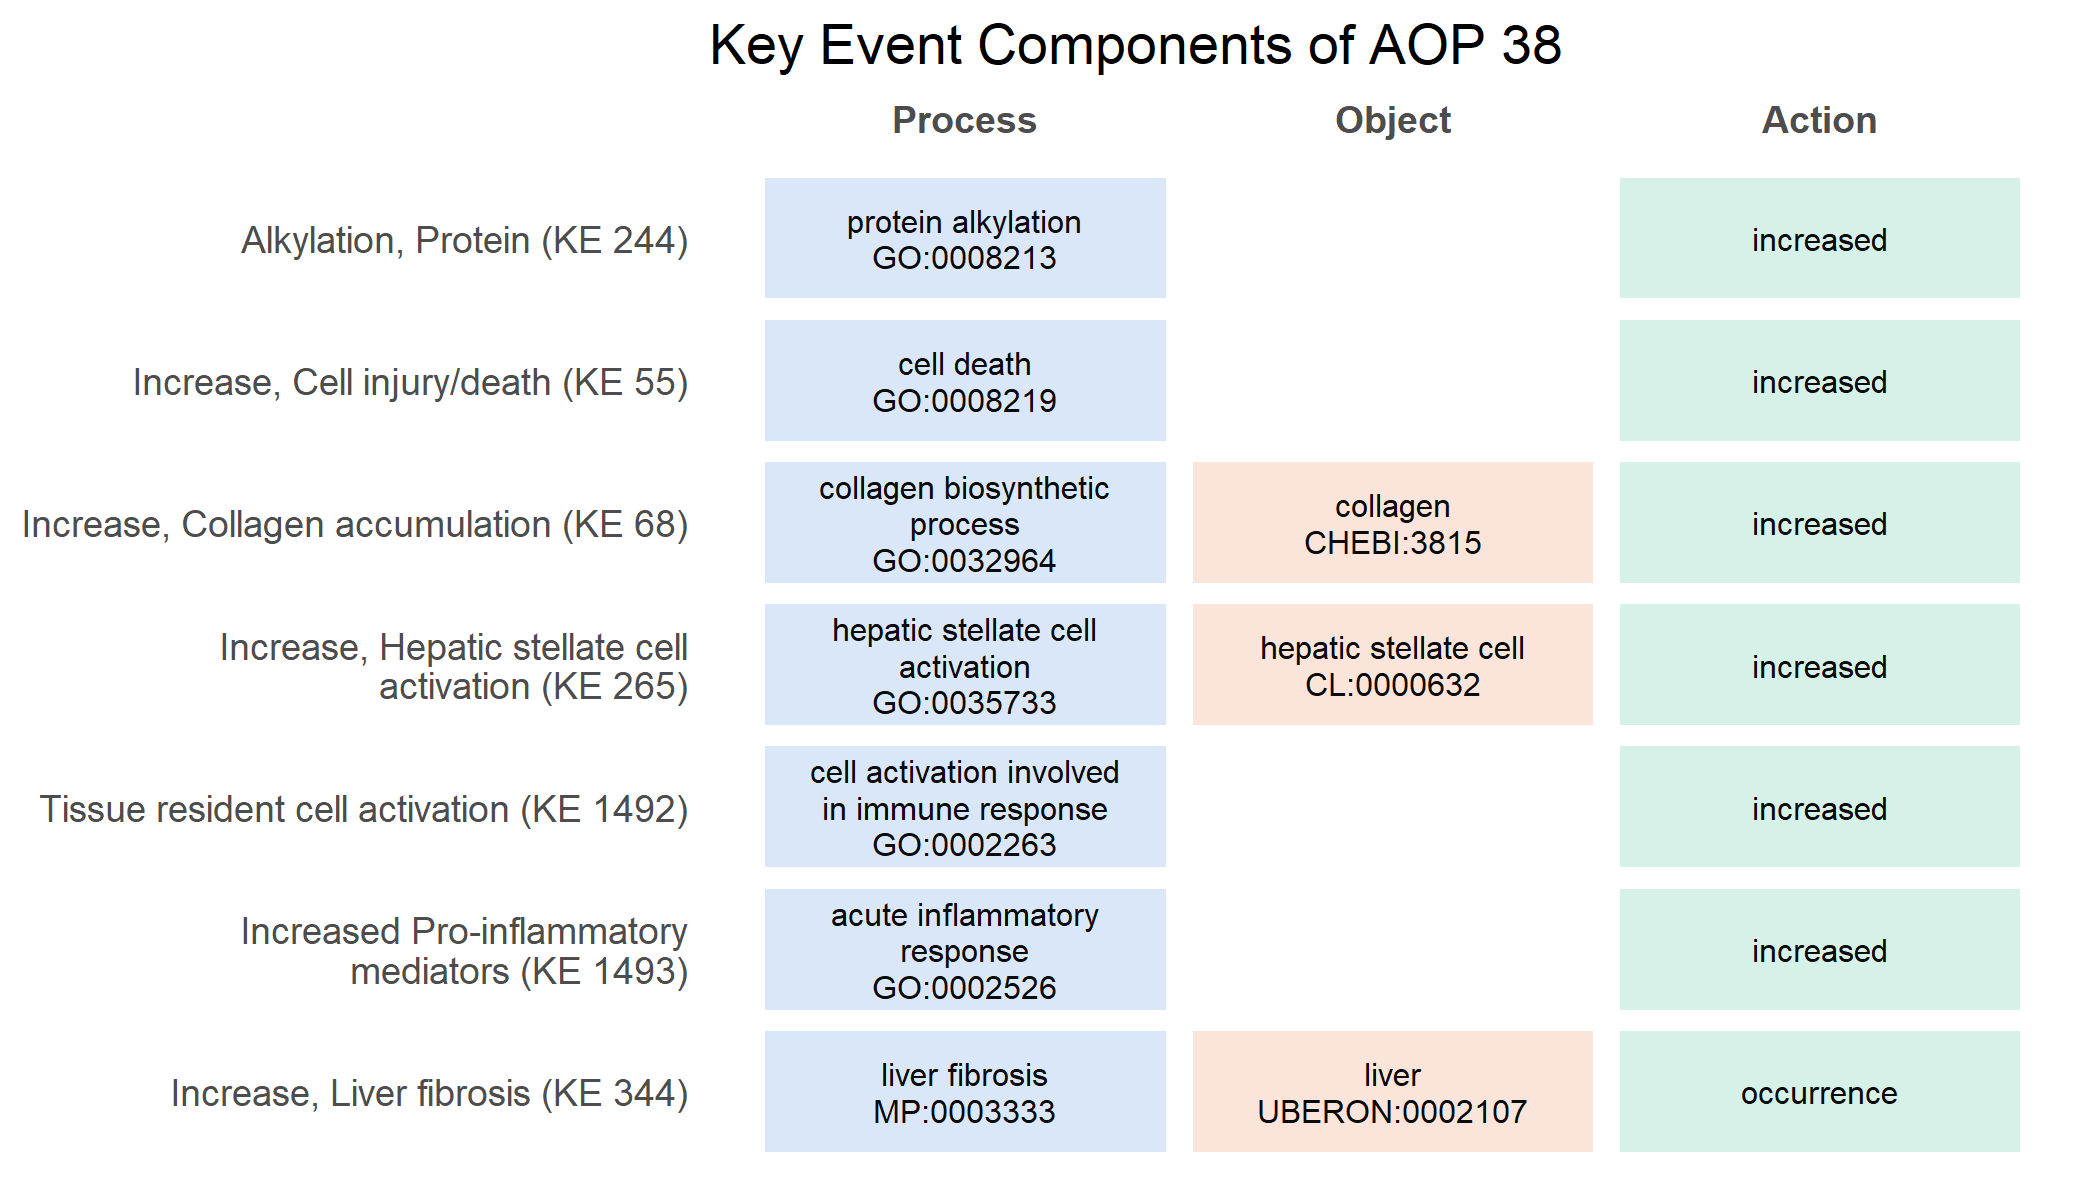
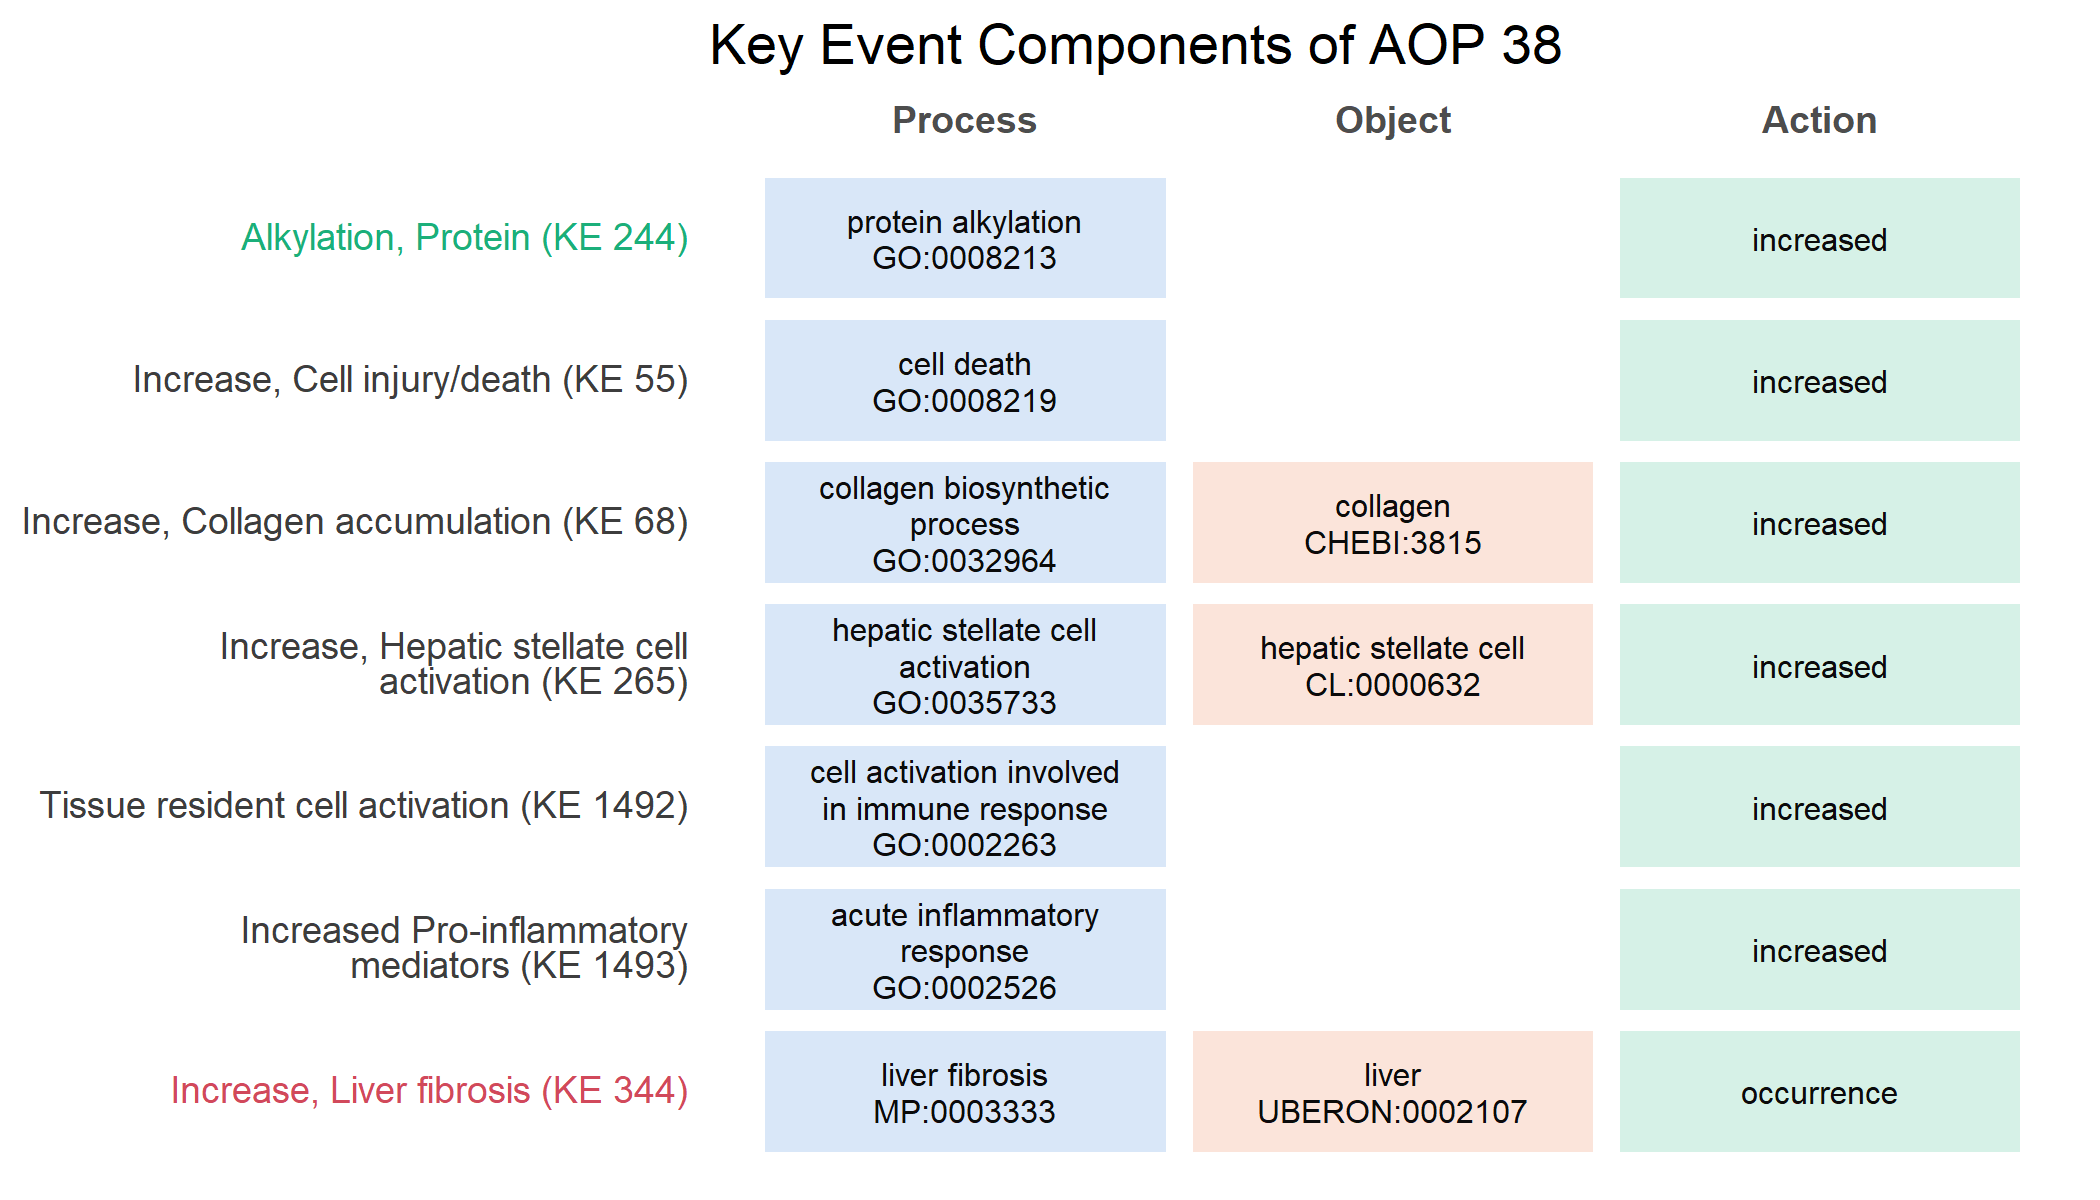
Lighten gene plot colours, mark MIE and AO in figure titles, keep Key Events without gene links

diff --git a/README.md b/README.md
@@ -68,7 +68,9 @@ table(genes$detected_by)
 ```
 
 Genes are linked to individual Key Events, so each Key Event can be
-treated as a candidate gene set:
+treated as a candidate gene set. Key Event titles are printed in green
+for the molecular initiating event and in red for the adverse outcome,
+and Key Events without gene links are left out:
 
 ``` r
 aop_plot_genes(38)
@@ -77,7 +79,8 @@ aop_plot_genes(38)
 <img src="man/figures/README-plot-1.png" width="100%" />
 
 Key Events are also described in ontology terms, as a biological
-process, an optional biological object and an action:
+process, an optional biological object and an action. Blank cells mark
+components that AOP-Wiki does not record:
 
 ``` r
 aop_plot_components(38)
